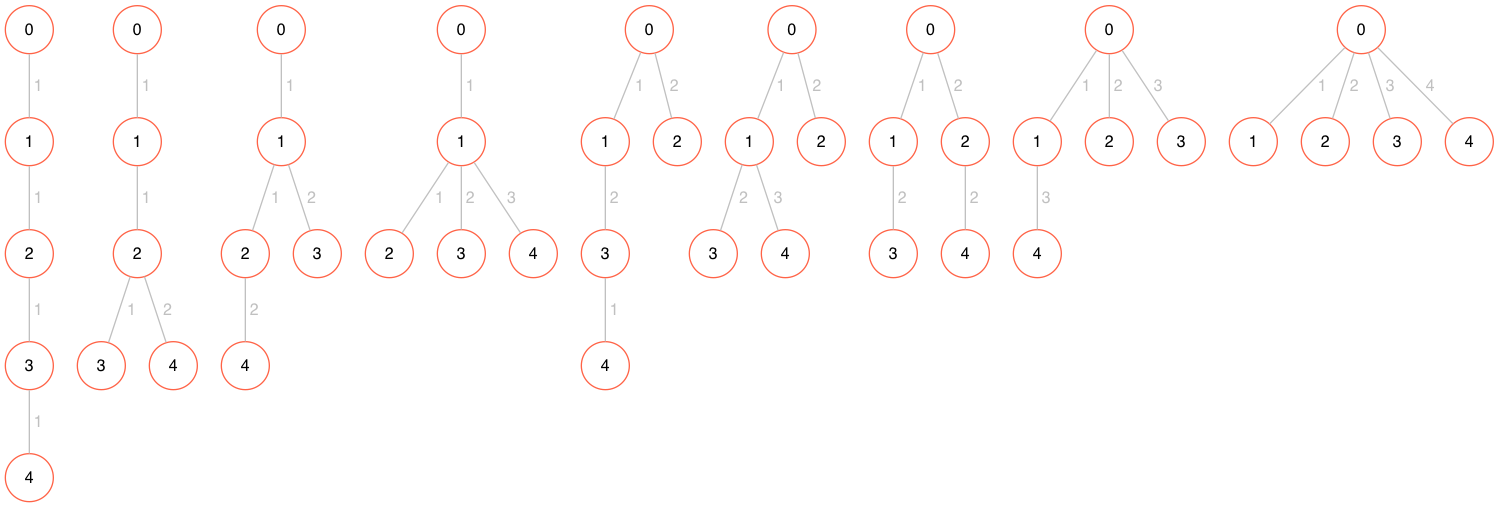
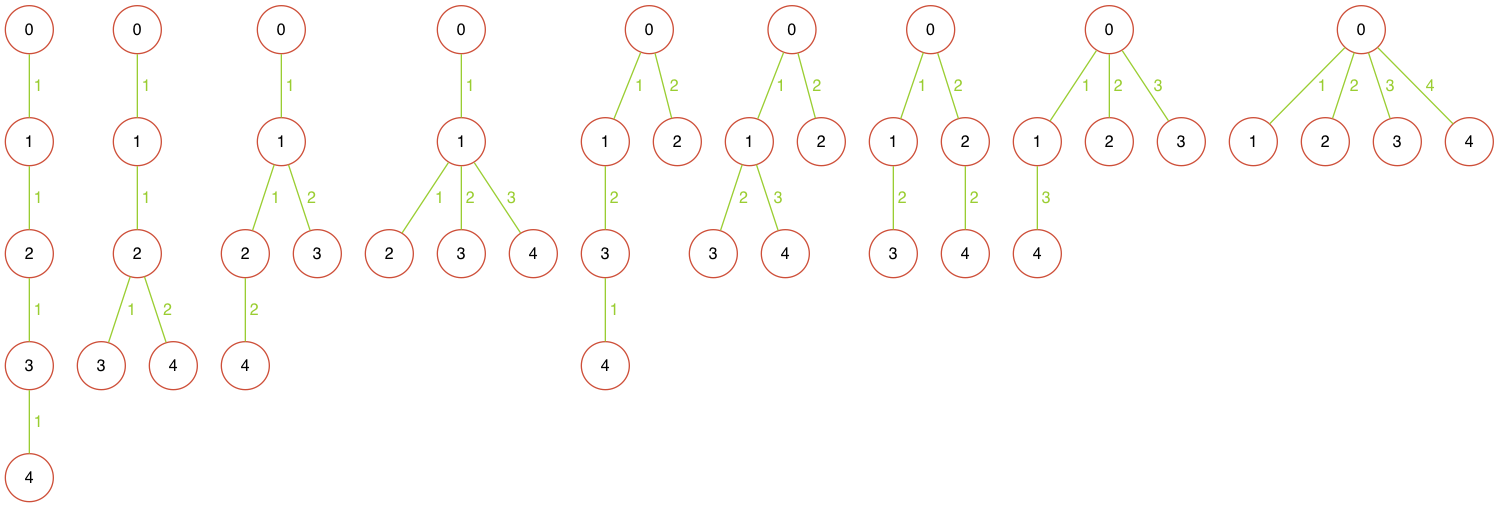
Improve colors

diff --git a/trees.rb b/trees.rb
@@ -50,6 +50,7 @@ class Tree
     filename = options[:name] || "all_#{self.all_nodes.length}v_trees"
     GraphViz.graph( :G ) do |graph|
       graphviz_to_render(graph, "")
+      graph[:fontname] = "Helvetica"
       graph[:label] = graph_label
       graph.output png: "graph_images/#{filename}.png"
     end
@@ -57,16 +58,16 @@ class Tree
 
   def graphviz_to_render(graph, num)
     graph.node[
-      color: :tomato,
-      # fontcolor: :tomato,
+      color: :tomato3,
+      # fontcolor: :white,
       # style: :filled,
       width: 0.5,
       height: 0.5,
       fontname: "Helvetica",
       fontsize: 12]
     graph.edge[
-      color: :gray,
-      fontcolor: :gray,
+      color: :yellowgreen,
+      fontcolor: :yellowgreen,
       fontname: "Helvetica",
       fontsize: 12]
     self.all_nodes.each do |node|

diff --git a/symmetric_star.rb b/symmetric_star.rb
@@ -1,5 +1,5 @@
 require_relative 'trees'
-require_relative 'graceful_trees'
+require_relative 'symmetric_star_labeling'
 require 'colorize'
 
 
